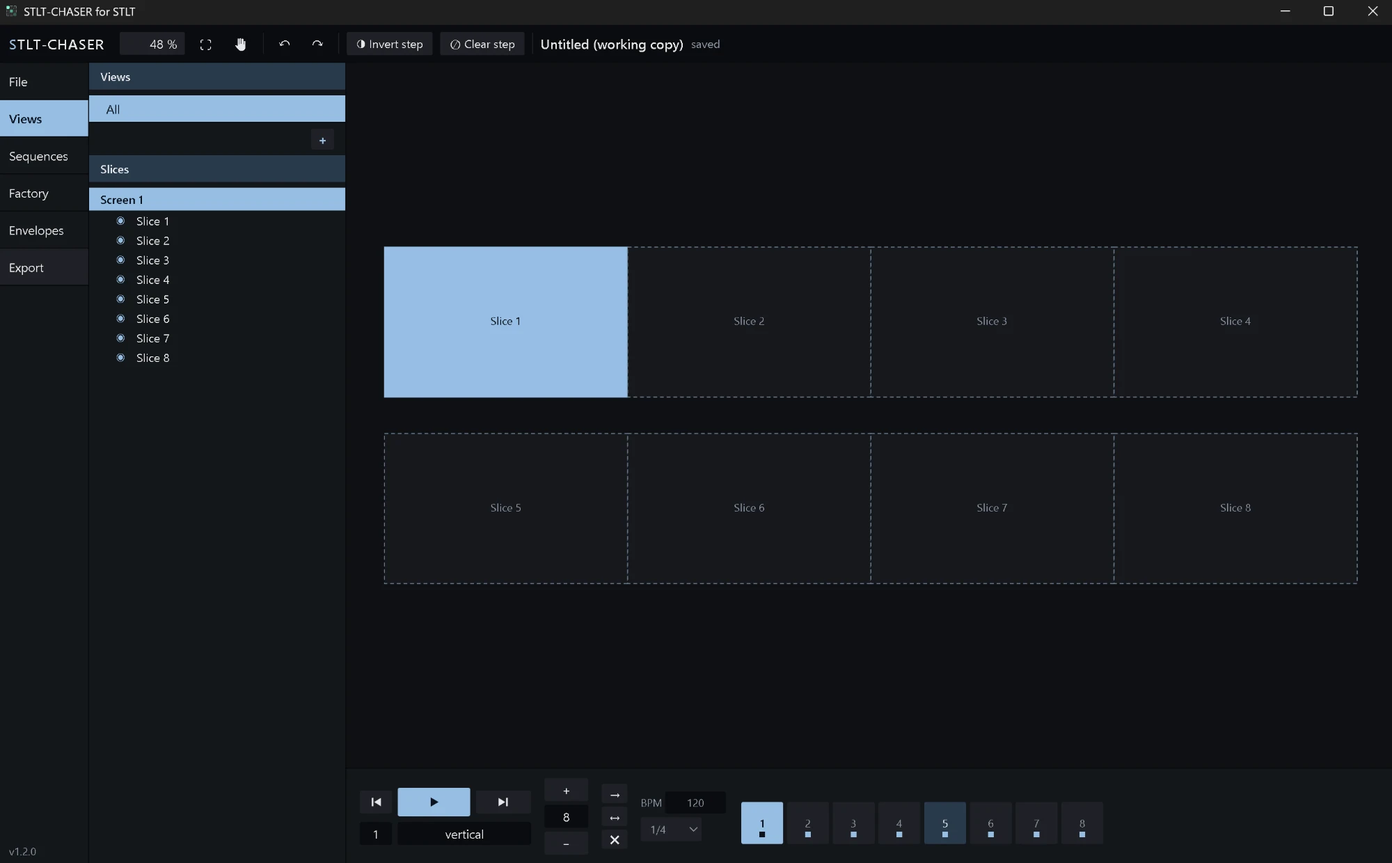
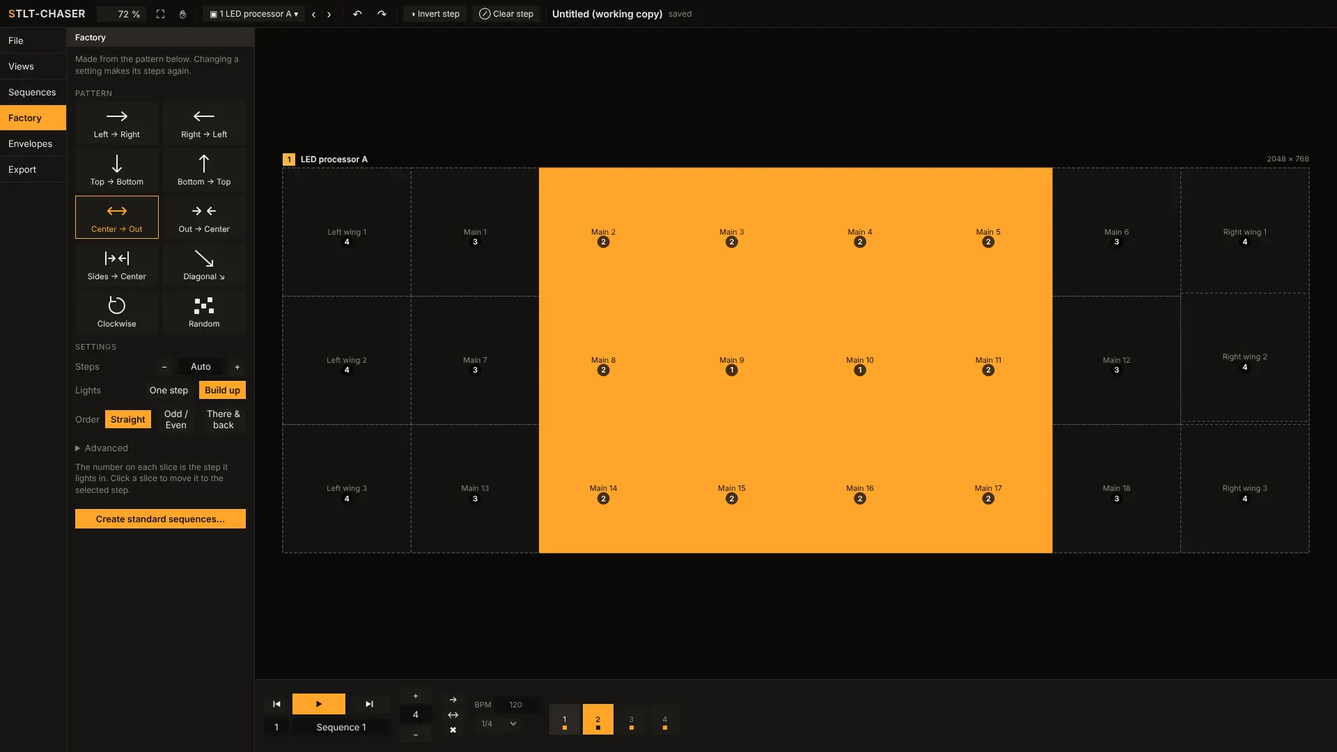
STLT 2.0.0: new screenshots, READMEs and release notes; the example setup gets a stage
Claude-Session: https://claude.ai/code/session_01447EwmwjN1X8ZWg5ZvHvRD

diff --git a/README.it.md b/README.it.md
@@ -15,9 +15,17 @@ Si passa dall'una all'altra con le due icone in alto a destra (o col tasto Tab).
 
 > **Cercasi utenti Mac.** La versione per macOS viene compilata in automatico ma **non è mai stata provata su un Mac vero**. Se puoi provarla, ogni riscontro è molto gradito, anche solo "si apre" o "non si apre": [apri una segnalazione](https://github.com/alfonsostillet/STLT/issues).
 
+## Le novità della 2.0
+
+- **Una nuova interfaccia**, scura e calda (il look *Ember*), con il deck disegnato a blocchi e tutta l'interfaccia che si può ingrandire.
+- **L'Advanced Output in tre passi**: *Screens* (da dove esce l'immagine), *Map* (quale parte dell'immagine va dove) e **Stage**, una vista 3D del luogo in metri con i proiettori dove staranno davvero.
+- **Un menu Output più completo**: schermo intero o finestra su ogni display, condivisione della composizione via NDI e Spout/Syphon, identificazione dei display, una test card e un'istantanea in PNG.
+- **Mappature che seguono la selezione**: un tasto o un controllo MIDI può agire su un layer o una clip fissi, oppure sul layer o sulla clip selezionati.
+- **STLT-CHASER** con lo stesso look e un selettore degli schermi: tutti affiancati, uno solo, oppure la composizione.
+
 ## La Grid: suonare dal vivo
 
-![La Grid: i layer a sinistra, le clip in colonne a destra, sotto i monitor e i pannelli di composizione, clip e prestazioni](docs/images/stlt-grid.webp)
+![La Grid: i layer a sinistra, le clip in colonne a destra, sotto il multiview di quattro schermi e i pannelli di composizione, clip ed effetti](docs/images/stlt-grid.webp)
 
 - **Layer, colonne e deck**: lanci una clip, una colonna intera oppure la clip precedente e successiva. I deck sono pagine di clip sugli stessi layer, e cambiare deck non ferma mai quello che sta suonando.
 - **Crossfader A/B** e, su ogni layer, blend mode, fader separati per master, audio e video, velocità, bypass e solo.
@@ -28,25 +36,43 @@ Si passa dall'una all'altra con le due icone in alto a destra (o col tasto Tab).
 - **Qualsiasi parametro si anima**: a tempo di BPM, su una durata in secondi o seguendo il suono in ingresso (livello, bassi, medi, alti).
 - **Monitor multiview**: la composizione, tutti gli schermi affiancati, un solo schermo o un solo layer. Un Preview Monitor a parte fa vedere una clip prima di mandarla in uscita.
 - **Clip**: punti di in e out, 8 cue point, BPM Sync, trigger Normal, Toggle e Piano, transizioni, lancio al prossimo beat o alla prossima battuta, audio a tempo con l'immagine.
-- **Mappatura da tastiera, MIDI e OSC**, con preset da salvare e portare su un altro computer. I pad mappati si illuminano sul controller, a colori sull'Akai APC mini mk2.
+- **Mappatura da tastiera, MIDI e OSC**, con preset da salvare e portare su un altro computer. Ogni mappatura agisce **per posizione** (sempre il layer 2, sempre quella clip) o **sulla selezione** (il layer selezionato, la clip selezionata), così otto fader di un controller comandano il layer che stai guardando. I pad mappati si illuminano sul controller, a colori sull'Akai APC mini mk2.
 
-### Slice su più schermi
+## L'Advanced Output: dall'immagine al luogo
 
-![L'Advanced Output nella configurazione Grid: l'elenco delle slice a sinistra, otto slice deformate sulla tela, le impostazioni della slice a destra](docs/images/stlt-output-grid.webp)
+L'**Advanced Output** porta il video su qualsiasi palco, in tre passi. Una striscia sotto i passi mostra sempre tutto il percorso: l'immagine, le slice in cui è tagliata, gli schermi che compongono e dove va ogni schermo.
 
-L'**Advanced Output** porta il video su qualsiasi palco: tutti gli schermi che servono, slice e poligoni di qualsiasi forma, warp prospettico, a griglia, a griglia curva e a contorno Bézier, maschere, soft edge per fondere i proiettori, test pattern e preset. Importa anche l'`AdvancedOutput.xml` di Resolume.
+### 1. Screens: da dove esce l'immagine
+
+![Passo 1, Screens: quattro uscite come schede (un processore LED, due proiettori e uno stream), sotto i display di questo computer, a destra le impostazioni dello schermo selezionato](docs/images/stlt-output-screens.webp)
+
+Ogni schermo è un'immagine che STLT manda fuori: trascinalo su uno dei tuoi display, dagli una finestra, oppure mandalo in rete via **NDI** e ad altri programmi con **Spout** (Windows) o **Syphon** (macOS). STLT chiede prima di coprire il proprio display.
+
+### 2. Map: quale parte va dove
+
+![Passo 2, Map: le slice elencate a sinistra, la composizione da cui prendono e lo schermo del processore LED su cui vanno affiancati, a destra le impostazioni della slice selezionata](docs/images/stlt-output-map.webp)
+
+Cosa **prende** una slice dalla composizione e dove **va** sul suo schermo, affiancati, con lo stesso colore e lo stesso numero. Slice e poligoni di qualsiasi forma, warp prospettico, a griglia, a griglia curva e a contorno Bézier, maschere, soft edge per fondere i proiettori, test pattern e preset. STLT segnala i problemi che trova (uno schermo che non va da nessuna parte, due slice sovrapposte su un LED) e importa anche l'`AdvancedOutput.xml` di Resolume.
+
+### 3. Stage: il luogo, in 3D
+
+![Passo 3, Stage: una facciata, il terreno e un palco in 3D, due proiettori che illuminano la facciata con i loro pixel per metro e lux, la zona in cui si sovrappongono contornata, a destra le impostazioni del proiettore selezionato](docs/images/stlt-output-stage.webp)
+
+Progetta una proiezione prima di arrivare sul posto. Inserisci le superfici nella loro misura reale in metri (una facciata, pareti, un pavimento, blocchi), poi i proiettori dove staranno, con i dati della loro scheda tecnica: ottica, escursione dello zoom, lens shift, lumen. STLT mostra cosa illumina ogni proiettore, quanto è nitido (**pixel per metro**) e quanto è luminoso (**lux**) lì, dove due proiettori si sovrappongono e quanta parte dell'immagine finisce nel vuoto. Guarda **attraverso** l'ottica di un proiettore, poi **crea le slice da lì**: ogni superficie che illumina diventa una slice già in prospettiva, da rifinire sul posto.
+
+La Grid e la Timeline hanno ognuna **la sua configurazione**, così gli schermi di uno show non toccano la tua mappatura dal vivo; una si può copiare nell'altra.
 
 ### STLT-CHASER incluso
 
-![L'editor di STLT-CHASER aperto sulle slice di STLT: otto slice sulla tela, il sequencer di step in basso](docs/images/stlt-chaser.webp)
+![L'editor di STLT-CHASER aperto sul processore LED di STLT: 24 slice, quelle centrali accese da un chase dal centro verso l'esterno fatto con la Factory a sinistra, il sequencer di step in basso](docs/images/stlt-chaser.webp)
 
-Bump, chase, tendine, ritardi e contorni sulle tue slice. *Output → Chaser...* apre l'editor sulle slice dell'Advanced Output, e gli effetti STLT-CHASER, STLT-WIPER e STLT-OUTLINER sono nel pannello Effects. Ogni sequenza è un pulsante che puoi mappare su un pad MIDI o un tasto, per cambiare sequenza dal vivo.
+Bump, chase, tendine, ritardi e contorni sulle tue slice. *Output → Chaser...* apre l'editor sulle slice dell'Advanced Output, schermo per schermo o tutti insieme, e gli effetti STLT-CHASER, STLT-WIPER e STLT-OUTLINER sono nel pannello Effects. Ogni sequenza è un pulsante che puoi mappare su un pad MIDI o un tasto, per cambiare sequenza dal vivo.
 
 È costruito intorno a **[STLT-CHASER](https://github.com/alfonsostillet/stlt-chaser)**, il nostro plugin gratuito per Resolume, e funziona allo stesso modo. **Per le istruzioni fai riferimento alla guida del plugin per Resolume**: [italiano](https://github.com/alfonsostillet/stlt-chaser/blob/main/docs/GUIDA.md), [English](https://github.com/alfonsostillet/stlt-chaser#readme).
 
 ## La Timeline: costruire uno show
 
-![La Timeline: blocchi e cue sopra le tracce video e audio, sotto le clip e il multiview di tre schermi](docs/images/stlt-timeline.webp)
+![La Timeline: due blocchi (Song 1, Song 2) sopra due tracce video di clip, sotto le clip del deck e il multiview di quattro schermi](docs/images/stlt-timeline.webp)
 
 Qui crei uno show da zero e poi lo mandi in diretta, agganciato a chi guida lo spettacolo.
 
@@ -72,14 +98,10 @@ Così è lo show ad aspettare chi è sul palco, e non il contrario. Ogni blocco 
 - **Timecode**: la timeline segue **LTC**, **MTC** e **Art-Net**, parte, si ferma e salta con lui, da un banco audio, un DAW o una console luci.
 - **Tempo**: **Ableton Link** e **MIDI clock**, con un ritardo regolabile per i proiettori e i LED che mostrano l'immagine in ritardo. I CDJ Pioneer si agganciano attraverso PRO DJ LINK Bridge di Pioneer.
 
-![L'Advanced Output nella configurazione Timeline: tre schermi come schede con le tracce che ognuno riceve, la slice selezionata che prende da tutti gli schermi](docs/images/stlt-output-timeline.webp)
-
-La Timeline ha la sua **configurazione dell'Advanced Output**, separata da quella della Grid, così gli schermi di uno show non toccano la tua mappatura dal vivo. Ogni schermo mostra le tracce che riceve.
-
 ## E poi
 
-- **Riproduzione veloce**: HAP e DXV 3 vanno direttamente alla scheda video, con salti istantanei a qualsiasi frame. Suonano anche H.264, HEVC, ProRes, DNxHD, VP9, PNG, JPEG, GIF e altri, con la decodifica hardware dove c'è.
-- **Il video verso altri programmi**: **Spout** (Windows), **Syphon** (macOS) e **NDI** in rete, schermo per schermo.
+- **Riproduzione veloce**: HAP e DXV 3 vanno direttamente alla scheda video, con salti istantanei a qualsiasi frame. Suonano anche H.264, HEVC, ProRes, DNxHD, VP9, PNG, JPEG, GIF e altri, con la decodifica hardware dove c'è; il pannello Clip indica il codec e suggerisce HAP o DXV quando una clip pesa sul processore.
+- **Il menu Output**: tutta la composizione a schermo intero o in una finestra su qualsiasi display, condivisa via NDI o Spout/Syphon, un numero su ogni display per riconoscerli, una test card e un'istantanea in PNG.
 - **Movimento regolare**: l'orologio dei fotogrammi si aggancia all'aggiornamento del display, e il pannello Performance mostra i tempi di ogni layer.
 - **Annulla e ripeti** per tutto, anche per l'intero Advanced Output.
 
@@ -120,4 +142,4 @@ GPL-3.0: vedi [LICENSE](LICENSE) e [THIRD_PARTY_NOTICES.md](THIRD_PARTY_NOTICES.
 
 ## Su questa versione
 
-Questa è la versione 1.0 e sarà sicuramente piena di bug. Non sono riuscito nemmeno a provare la versione per Mac; so per certo che quella per Windows funziona. Se qualcuno volesse mandarmi un feedback ne sarei contento: [apri una segnalazione](https://github.com/alfonsostillet/STLT/issues).
+Questa è la versione 2.0: una nuova interfaccia e un Advanced Output ricostruito intorno al luogo su cui proietti. Avrà sicuramente ancora dei bug. Non sono riuscito a provare la versione per Mac; so per certo che quella per Windows funziona. Se qualcuno volesse mandarmi un feedback ne sarei contento: [apri una segnalazione](https://github.com/alfonsostillet/STLT/issues). L'interfaccia della 1.x resta sul branch [`classic-ui`](https://github.com/alfonsostillet/STLT/tree/classic-ui).

diff --git a/README.md b/README.md
@@ -15,9 +15,17 @@ Switch between them with the two icons at the top right (or the Tab key). Each o
 
 > **Mac users wanted.** The macOS version builds automatically but **has never been tested on a real Mac**. If you can try it, any feedback is very welcome, even just "it opens" or "it doesn't": please [open an issue](https://github.com/alfonsostillet/STLT/issues).
 
+## New in 2.0
+
+- **A new interface**, warm and dark (the *Ember* look), with the deck drawn in blocks and the whole interface zoomable.
+- **The Advanced Output in three steps**: *Screens* (where the picture goes out), *Map* (which part of the picture goes where) and **Stage**, a 3D view of the place in metres with the projectors where they will really stand.
+- **A fuller Output menu**: fullscreen or a window on each display, composition sharing over NDI and Spout/Syphon, identify displays, a test card and a snapshot to PNG.
+- **Maps that follow the selection**: a key or a MIDI control can act on a fixed layer or clip, or on whichever layer or clip is selected.
+- **STLT-CHASER** in the same look, with a screen picker: all the screens side by side, one screen, or the composition.
+
 ## The Grid: playing live
 
-![The Grid: layers on the left, clips in columns on the right, monitors, composition, clip and performance panels below](docs/images/stlt-grid.webp)
+![The Grid: layers on the left, clips in columns on the right, the multiview of four screens, the composition, clip and effects panels below](docs/images/stlt-grid.webp)
 
 - **Layers, columns and decks**: launch a single clip, a whole column or the next and previous clip. Decks are pages of clips over the same layers, and changing deck never stops what is playing.
 - **A/B crossfader**, and on every layer blend modes, separate master, audio and video faders, speed, bypass and solo.
@@ -28,25 +36,43 @@ Switch between them with the two icons at the top right (or the Tab key). Each o
 - **Animate any parameter**: to the BPM, over a time in seconds, or following the sound coming in (level, bass, mid, treble).
 - **Multiview monitor**: see the composition, all the screens side by side, a single screen or a single layer. A separate Preview Monitor plays a clip before it goes out.
 - **Clips**: in and out points, 8 cue points, BPM Sync, Normal, Toggle and Piano triggers, transitions, launching on the next beat or bar, and sound in step with the picture.
-- **Keyboard, MIDI and OSC mapping**, with presets you can save and carry to another computer. Mapped controller pads light up, in colour on the Akai APC mini mk2.
+- **Keyboard, MIDI and OSC mapping**, with presets you can save and carry to another computer. Each map acts **by position** (always layer 2, always that clip) or **on the selection** (the selected layer, the selected clip), so eight faders on a controller can drive whichever layer you are looking at. Mapped controller pads light up, in colour on the Akai APC mini mk2.
 
-### Slices on many screens
+## The Advanced Output: from the picture to the place
 
-![The Advanced Output in the Grid setup: a list of slices on the left, eight warped slices on the canvas, the slice settings on the right](docs/images/stlt-output-grid.webp)
+The **Advanced Output** maps your video onto any stage, in three steps. A strip under the steps always shows the whole path: the picture, the slices it is cut into, the screens they make, and where each screen goes.
 
-The **Advanced Output** maps your video onto any stage: as many screens as you need, slices and polygons of any shape, perspective, grid, curved grid and Bézier contour warps, masks, soft edges for blending projectors, test patterns and presets. It can also import Resolume's `AdvancedOutput.xml`.
+### 1. Screens: where the picture goes out
+
+![Step 1, Screens: four outputs listed as cards (an LED processor, two projectors and a stream), this computer's displays below, the selected screen's settings on the right](docs/images/stlt-output-screens.webp)
+
+Each screen is one picture STLT sends out: drag it onto one of your displays, give it a window, or send it over the network by **NDI** and to other programs through **Spout** (Windows) or **Syphon** (macOS). STLT asks before covering its own display.
+
+### 2. Map: which part goes where
+
+![Step 2, Map: the slices listed on the left, the composition they take from and the LED processor's screen they go to side by side, the selected slice's settings on the right](docs/images/stlt-output-map.webp)
+
+What a slice **takes** from the composition and where it **goes** on its screen, side by side, in the same colour and with the same number. Slices and polygons of any shape, perspective, grid, curved grid and Bézier contour warps, masks, soft edges for blending projectors, test patterns and presets. STLT points out the problems it finds (a screen that goes nowhere, two slices overlapping on an LED wall), and it can import Resolume's `AdvancedOutput.xml`.
+
+### 3. Stage: the place, in 3D
+
+![Step 3, Stage: a façade, the ground and a stage block in 3D, two projectors lighting the façade with their pixels per metre and lux, the zone where they overlap outlined, the selected projector's settings on the right](docs/images/stlt-output-stage.webp)
+
+Plan a projection before you get to the place. Put in the surfaces at their real size in metres (a façade, walls, a floor, blocks), then the projectors where they will stand, as their data sheets give them: lens, zoom range, lens shift, lumens. STLT shows what each projector lights, how sharp (**pixels per metre**) and how bright (**lux**) it is there, where two projectors overlap, and how much of a picture lands on nothing. Look **through** a projector's lens, then **make the slices from there**: each surface it lights becomes a slice already in perspective, ready to fine tune on site.
+
+The Grid and the Timeline each have **their own setup**, so a show's screens don't disturb your live mapping; one can be copied into the other.
 
 ### STLT-CHASER built in
 
-![The STLT-CHASER editor opened on STLT's slices: eight slices on the canvas, the step sequencer at the bottom](docs/images/stlt-chaser.webp)
+![The STLT-CHASER editor opened on STLT's LED processor: 24 slices, the middle ones lit by a centre-out chase made with the Factory on the left, the step sequencer at the bottom](docs/images/stlt-chaser.webp)
 
-Bumps, chases, wipes, delays and outlines across your slices. *Output → Chaser...* opens the editor on the slices of your Advanced Output, and the STLT-CHASER, STLT-WIPER and STLT-OUTLINER effects are in the Effects panel. Each sequence is a button you can map to a MIDI pad or a key, to change sequence live.
+Bumps, chases, wipes, delays and outlines across your slices. *Output → Chaser...* opens the editor on the slices of your Advanced Output, screen by screen or all together, and the STLT-CHASER, STLT-WIPER and STLT-OUTLINER effects are in the Effects panel. Each sequence is a button you can map to a MIDI pad or a key, to change sequence live.
 
 It is built around **[STLT-CHASER](https://github.com/alfonsostillet/stlt-chaser)**, our free plugin for Resolume, and it works the same way. **For the instructions, follow the guide of the Resolume plugin**: [English](https://github.com/alfonsostillet/stlt-chaser#readme), [italiano](https://github.com/alfonsostillet/stlt-chaser/blob/main/docs/GUIDA.md).
 
 ## The Timeline: building a show
 
-![The Timeline: blocks and cues above video and audio tracks, the clips and a multiview of three screens below](docs/images/stlt-timeline.webp)
+![The Timeline: two blocks (Song 1, Song 2) above two video tracks of clips, the deck's clips and a multiview of four screens below](docs/images/stlt-timeline.webp)
 
 Here you create a show from scratch, then send it out live, locked to whatever leads the performance.
 
@@ -72,14 +98,10 @@ So the show waits for the people on stage, not the other way round. Every block 
 - **Timecode**: the timeline follows **LTC**, **MTC** and **Art-Net**, starting, stopping and jumping with it, from an audio desk, a DAW or a lighting desk.
 - **Tempo**: **Ableton Link** and **MIDI clock**, with an adjustable delay for projectors and LED walls that show the picture late. Pioneer CDJs can join through Pioneer's PRO DJ LINK Bridge.
 
-![The Advanced Output in the Timeline setup: three screens as cards with the tracks each one receives, the selected slice taking from all the screens](docs/images/stlt-output-timeline.webp)
-
-The Timeline has its **own Advanced Output setup**, separate from the Grid's, so a show's screens don't disturb your live mapping. Each screen shows the tracks it receives.
-
 ## Also inside
 
-- **Fast playback**: HAP and DXV 3 go straight to the GPU, with instant jumps to any frame. H.264, HEVC, ProRes, DNxHD, VP9, PNG, JPEG, GIF and others also play, with hardware decoding where available.
-- **Sending video to other programs**: **Spout** (Windows), **Syphon** (macOS) and **NDI** over the network, screen by screen.
+- **Fast playback**: HAP and DXV 3 go straight to the GPU, with instant jumps to any frame. H.264, HEVC, ProRes, DNxHD, VP9, PNG, JPEG, GIF and others also play, with hardware decoding where available; the Clip panel names the codec and suggests HAP or DXV when a clip would weigh on the processor.
+- **The Output menu**: the whole composition fullscreen or in a window on any display, shared over NDI or Spout/Syphon, numbers on every display to tell them apart, a test card, and a snapshot to PNG.
 - **Even motion**: the frame clock locks to the display's refresh, and the Performance panel shows the timing of every layer.
 - **Undo and redo** for everything, including the whole Advanced Output.
 
@@ -120,4 +142,4 @@ GPL-3.0: see [LICENSE](LICENSE) and [THIRD_PARTY_NOTICES.md](THIRD_PARTY_NOTICES
 
 ## About this version
 
-This is version 1.0, and it will surely be full of bugs. I wasn't even able to try the Mac version; what I know for sure is that the Windows one works. If anyone would like to send me feedback, I'd be glad to hear it: [open an issue](https://github.com/alfonsostillet/STLT/issues).
+This is version 2.0: a new interface, and an Advanced Output rebuilt around the place you are projecting on. It will surely still have bugs. I wasn't able to try the Mac version; what I know for sure is that the Windows one works. If anyone would like to send me feedback, I'd be glad to hear it: [open an issue](https://github.com/alfonsostillet/STLT/issues). The 1.x interface stays on the [`classic-ui`](https://github.com/alfonsostillet/STLT/tree/classic-ui) branch.

diff --git a/docs/releases/v2.0.0.md b/docs/releases/v2.0.0.md
@@ -1,0 +1,25 @@
+STLT 2.0: a new interface, and an Advanced Output in three steps that ends in a 3D view of the place.
+
+🇮🇹 **STLT 2.0**. Una nuova interfaccia e un Advanced Output rifatto in tre passi, fino a una vista 3D del luogo su cui proietti. Scarica il file per il tuo sistema qui sotto, in *Assets*; le impostazioni e le configurazioni delle uscite che hai restano.
+
+- **Windows** (`STLT-v2.0.0-windows.zip`): estrai tutta la cartella (tasto destro → *Estrai tutto*) e avvia `STLT.exe`. Il programma non è firmato: se Windows mostra "Windows ha protetto il PC", clicca *Ulteriori informazioni* → *Esegui comunque*.
+- **macOS** (`STLT-v2.0.0-macos.zip`, Apple Silicon): estrai e sposta `STLT.app` dove vuoi. L'app non è firmata da Apple: la prima volta aprila col tasto destro → *Apri* (oppure *Impostazioni di Sistema → Privacy e sicurezza → Apri comunque*).
+- **Linux** (`STLT-v2.0.0-linux.tar.gz`): compilato su Ubuntu 24.04, usa le librerie FFmpeg, GLEW e GTK 3 del sistema; avvia `stlt`.
+
+## Novità rispetto alla 1.0
+
+- **Nuova interfaccia**: scura e calda (il look *Ember*), il deck disegnato a blocchi, lo zoom di tutta l'interfaccia (*View → Zoom In / Zoom Out*). L'interfaccia della 1.x resta sul branch [`classic-ui`](https://github.com/alfonsostillet/STLT/tree/classic-ui).
+- **Advanced Output in tre passi**, con una striscia che mostra sempre tutto il percorso (immagine → slice → schermi → dove vanno):
+  - **Screens**: gli schermi come schede, da trascinare sui display del computer, in una finestra o in rete via NDI e Spout/Syphon. STLT chiede prima di coprire il proprio display.
+  - **Map**: cosa prende ogni slice dalla composizione e dove va sullo schermo, affiancati, con i problemi trovati (uno schermo che non va da nessuna parte, slice sovrapposte).
+  - **Stage**: le superfici nella loro misura reale in metri e i proiettori dove staranno, con ottica, zoom, lens shift e lumen dalla scheda tecnica. Mostra cosa illumina ogni proiettore, i pixel per metro e i lux, le sovrapposizioni e quanta parte dell'immagine finisce nel vuoto; si guarda attraverso l'ottica di un proiettore e se ne ricavano le slice già in prospettiva. La vista 3D si può staccare in una finestra.
+  - La configurazione della Grid e quella della Timeline restano separate, e una si copia nell'altra; *How it works* spiega tutto in quattro righe.
+- **Menu Output**: tutta la composizione a schermo intero o in finestra su ogni display, condivisione della composizione via NDI e Spout/Syphon, *Identify Displays*, *System Display Settings* (Windows e macOS), test card e istantanea in PNG.
+- **Mappature che seguono la selezione**: ogni mappatura da tastiera o MIDI agisce per posizione, sul layer selezionato o sulla clip selezionata (*New maps act on* e la colonna *Acts on*).
+- **STLT-CHASER**: l'editor con il look di STLT e un selettore degli schermi (tutti affiancati, uno solo, la composizione; PagSu e PagGiù per passare dall'uno all'altro). Una selezione a rettangolo prende le slice dello schermo in cui inizia.
+- **Pannello Clip**: invece di "Not HAP", indica il codec e se la clip è decodificata dalla scheda video (HAP, DXV) o dal processore, con il consiglio di convertirla.
+- **Un esempio da provare**: [`docs/examples/Test stage.json`](https://github.com/alfonsostillet/STLT/tree/main/docs/examples), con un LED a 24 slice, due proiettori, uno stream NDI e uno Stage con facciata e proiettori.
+
+## English
+
+STLT 2.0 brings a new interface (the warm, dark *Ember* look, the deck drawn in blocks, zoom for the whole interface) and an **Advanced Output in three steps**, with a strip that always shows the whole path from the picture to the displays. **Screens**: the outputs as cards, dragged onto the computer's displays, into a window, or out over NDI and Spout/Syphon. **Map**: what each slice takes from the composition and where it goes, side by side, with the problems found. **Stage**: the surfaces at their real size in metres and the projectors where they will stand, from their data sheets, showing what each lights, pixels per metre, lux, overlaps and how much lands on nothing; look through a projector's lens and make its slices already in perspective. The Grid and the Timeline keep separate setups that can be copied into each other. The **Output menu** puts the whole composition fullscreen or in a window on any display, shares it over NDI and Spout/Syphon, identifies displays, opens the system's display settings, and has a test card and a PNG snapshot. **Key and MIDI maps** act by position, on the selected layer or on the selected clip. **STLT-CHASER** gets the same look and a screen picker. The Clip panel names the codec instead of "Not HAP". An example setup to try is in `docs/examples/Test stage.json`. The 1.x interface stays on the [`classic-ui`](https://github.com/alfonsostillet/STLT/tree/classic-ui) branch. The programs are not signed: on Windows choose *More info → Run anyway*, on macOS right-click → *Open* the first time. See [app/README.md](https://github.com/alfonsostillet/STLT/blob/main/app/README.md).

diff --git a/app/README.md b/app/README.md
@@ -66,7 +66,7 @@ As in Ableton Live, two views: **Session** (the three upright lines at the top r
 
 ## Advanced Output
 
-![The Advanced Output in the Grid setup: a list of slices on the left, eight warped slices on the canvas, the slice settings on the right](../docs/images/stlt-output-grid.webp)
+![The Advanced Output, step 2 Map: the slices listed on the left, the composition they take from and the LED processor's screen they go to side by side, the selected slice's settings on the right](../docs/images/stlt-output-map.webp)
 
 - **Screens**: as many as you need, each fullscreen on a display (chosen by name, so it finds the projector again after a restart), in a window, or virtual. Per screen: resolution, opacity, brightness, contrast, red/green/blue, and a **test pattern** that draws every slice as a coloured grid with its frame and centre, for lining up projectors.
 - **Stage** (step 3): the space at its real size and the projectors where they will stand, to plan a mapping before getting to the place. Put in **surfaces** (flat rectangles: a façade, a wall, a floor; *Turn* -90 lays one flat) and **blocks** (boxes: their six faces), in metres, then **projectors** as their data sheets give them: position, aim (pan, tilt, roll, or *Point at* a surface), resolution, throw ratio within the zoom's range, lens shift, lumens. The 3D view (drag to turn around, Shift or the middle button to slide, the wheel to come closer; *Top*, *Front*, or *Through* a projector's lens) shows each projector's beam and the part of each surface it lights, with its **pixels per metre** and **lux**; where two projectors overlap the zone to blend is outlined; *Colour* paints the lit parts by projector, brightness or sharpness. A projector's settings list what it lights, how much of its picture lands on nothing, and its overlaps; a surface's say how much of it is covered. Each projector shows a screen of step 1 (*Goes out as*); **Make the slices from here** gives that screen a slice for each surface it lights, already in perspective from where it stands, to fine tune on site in step 2. *Detach the view* puts the 3D view in a window of its own.
@@ -81,7 +81,7 @@ As in Ableton Live, two views: **Session** (the three upright lines at the top r
 - **Presets** of the whole setup, and **import from Resolume**: *Import from Resolume* reads Arena's or Avenue's `AdvancedOutput.xml` straight from Documents, or pick any file. Screens, slices (input and output rectangles), polygons and masks come across, with the slices' warp grids (linear as *Grid*, Bézier as *Curved Grid*) and soft edges. Resolume does not document this file: the importer reads the variants it knows and keeps the plain output rectangle for anything else, so check warped slices after an import (and send us the file if one comes out wrong).
 - The setup is saved on exit and restored on start, independently of the composition.
 
-![The Advanced Output in the Timeline setup: three screens as cards with the tracks each one receives, the selected slice taking from all the screens](../docs/images/stlt-output-timeline.webp)
+![The Advanced Output, step 3 Stage: a façade, the ground and a stage block in 3D, two projectors lighting the façade with their pixels per metre and lux, the zone where they overlap outlined, the selected projector's settings on the right](../docs/images/stlt-output-stage.webp)
 
 Rendering: each slice is a fine triangle mesh that follows the warp, so perspective and curves stay smooth; the composition is sampled once per screen pixel, soft edges are computed per pixel, and each screen gets its own vsynced window.
 

diff --git a/docs/examples/README.md b/docs/examples/README.md
@@ -1,5 +1,5 @@
 # Example setups
 
-- **Test stage.json**: an Advanced Output setup for trying the editor. Screen 1 is an LED processor (2048 × 768) with a 6 × 3 cabinet wall and two wings, 24 slices; Right wing 2 sits 6 px too high, so the Map step reports an overlap. Screens 2 and 3 are two projectors with keystone and soft edges; screen 4 goes out by NDI. Every screen starts on Virtual: drag them onto your displays in step 1.
+- **Test stage.json**: an Advanced Output setup for trying the editor. Screen 1 is an LED processor (2048 × 768) with a 6 × 3 cabinet wall and two wings, 24 slices; Right wing 2 sits 6 px too high, so the Map step reports an overlap. Screens 2 and 3 are two projectors with keystone and soft edges; screen 4 goes out by NDI. The Grid setup's Stage (step 3) has a façade 20 × 12 m, the ground and a stage block, with the two projectors 24 m away lighting the façade and overlapping in the middle. Every screen starts on Virtual: drag them onto your displays in step 1.
 
 To load it, put the file in the `output-presets` folder of the settings folder (Preferences > General shows where it is; on Windows `%APPDATA%\STLT\output-presets`), then choose it in the Advanced Output under *Presets and imports > Load preset*.
